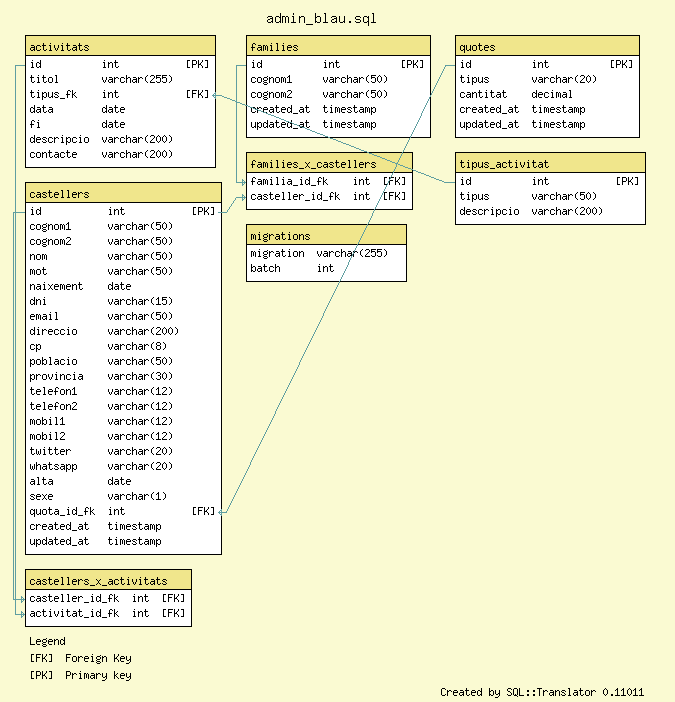
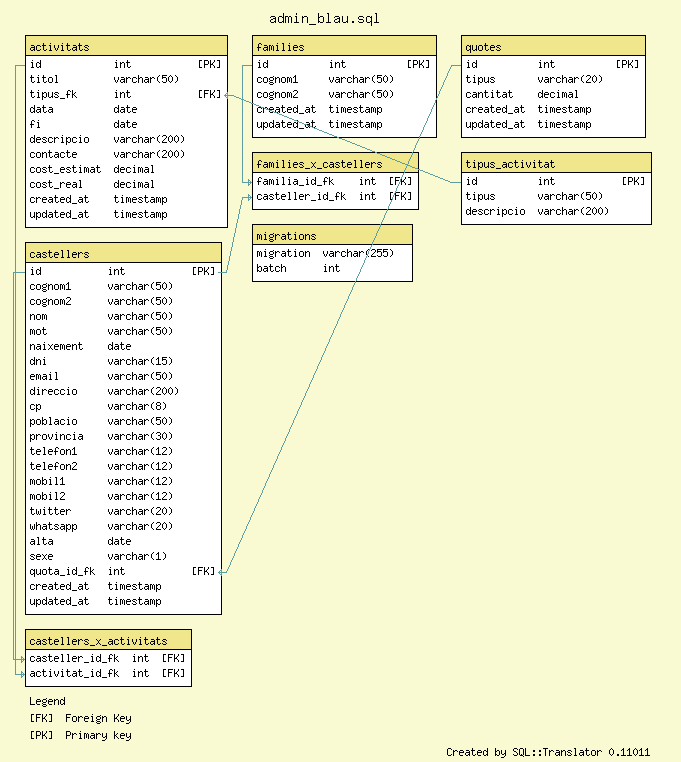
correct order of drops of tables

diff --git a/app/database/migrations/2014_02_11_124400_create_castellers.php b/app/database/migrations/2014_02_11_124400_create_castellers.php
@@ -75,6 +75,7 @@ class CreateCastellers extends Migration {
 		    $table->string('contacte', 200)->nullable();		    
 		    $table->decimal('cost_estimat')->nullable();
 		    $table->decimal('cost_real')->nullable();
+		    $table->timestamps();
 		});
 
 	    Schema::create('castellers_x_activitats', function($table) {
@@ -93,13 +94,13 @@ class CreateCastellers extends Migration {
 	 */
 	public function down()
 	{
-	    Schema::drop('quotes');
-	    Schema::drop('castellers');
-	    Schema::drop('families');
-	    Schema::drop('families_x_castellers');
-	    Schema::drop('tipus_activitat');
-	    Schema::drop('activitats');
 	    Schema::drop('castellers_x_activitats');
+	    Schema::drop('activitats');
+	    Schema::drop('tipus_activitat');
+	    Schema::drop('families_x_castellers');
+	    Schema::drop('families');
+	    Schema::drop('castellers');
+	    Schema::drop('quotes');
 	}
 
 }
